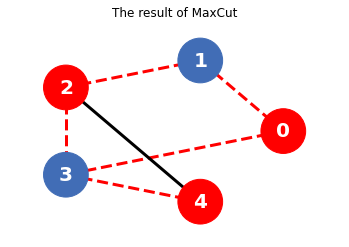
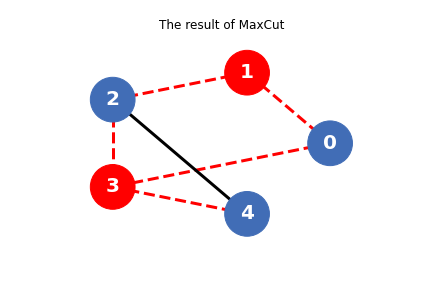
add QAOA demo

diff --git a/docs/zh/docs/tutorials/algorithm/VQA/QAOA.md b/docs/zh/docs/tutorials/algorithm/VQA/QAOA.md
@@ -1,0 +1,184 @@
+# 量子近似优化算法（QAOA）
+
+本教程旨在介绍如何使用经典机器学习库Pytorch和QuICT中内置的量子近似优化算法模块（Quantum Approximate Optimization Algorithm, QAOA）进行通用的组合优化问题的求解，并以最大割问题（Max-Cut Problem）为例具体阐述QAOA。
+
+## 组合优化问题
+
+## 编码组合优化问题
+
+## QuICT实现QAOA求解最大割问题
+
+### 1. 创建最大割问题的图
+
+首先，导入运行库：
+
+```python
+import torch
+import tqdm
+
+from QuICT.algorithm.quantum_machine_learning.utils import Hamiltonian
+from QuICT.algorithm.quantum_machine_learning.utils.ml_utils import *
+from QuICT.algorithm.quantum_machine_learning.model.VQA import QAOANet
+from QuICT.algorithm.tools.drawer.graph_drawer import *
+from QuICT.simulation.state_vector import ConstantStateVectorSimulator
+```
+
+接下来，生成最大割问题的图 $G$ ，其中 $n$ 为图 $G$ 的顶点数：
+
+```python
+n = 5
+nodes = list(range(n))
+edges = [[0, 1], [1, 2], [2, 3], [3, 4], [0, 3], [2, 4]]
+# 内置的画图函数可以打印生成的图G
+draw_graph(nodes, edges)
+```
+
+<figure markdown>
+![Max-Cut Graph](../../../assets/images/tutorials/algorithm/VQA/QAOA/maxcut_graph.png){:width="500px"}
+</figure>
+
+### 2. 根据图编码哈密顿量
+
+为了将最大割问题转化为量子问题，应使 $G$ 的 $n$ 个顶点分别一一对应到 $n$ 个量子比特，一个量子比特处于 $\left | 0 \right \rangle$ 或 $\left | 1 \right \rangle$ 态分别代表其对应顶点属于不同的集合 $S_0$ 和 $S_1$ 。对于图 $G$ 中的任意一条边 $(u, v)$ ，当 $u$ 和 $v$ 分别属于不同集合时，意味着这条边被割开。
+
+而量子态 $\left | 0 \right \rangle$ 和 $\left | 1 \right \rangle$ 是泡利 $Z$ 门的两个本征态，对应的本征值分别为 $1$ 和 $-1$ 。因此最大割问题的哈密顿量 $H$ 可以通过泡利 $Z$ 门构建：
+
+```python
+def maxcut_hamiltonian(edges):
+    pauli_list = []
+    for edge in edges:
+        pauli_list.append([-1.0, "Z" + str(edge[0]), "Z" + str(edge[1])])
+    hamiltonian = Hamiltonian(pauli_list)
+
+    return hamiltonian
+
+H = maxcut_hamiltonian(edges)
+```
+
+QuICT中的哈密顿量以`list`形式的泡利字符串作为输入，并构建哈密顿类，同时，也可以查看哈密顿类的泡利字符串：
+
+```python
+H.pauli_str
+```
+
+```
+[[-1.0, 'Z0', 'Z1'],
+ [-1.0, 'Z1', 'Z2'],
+ [-1.0, 'Z2', 'Z3'],
+ [-1.0, 'Z3', 'Z4'],
+ [-1.0, 'Z0', 'Z3'],
+ [-1.0, 'Z2', 'Z4']]
+```
+
+### 3. 构建含参的QAOA电路
+
+为了求解最大割问题，需要找到量子态 $\left | \psi \right \rangle$ ，使上一节中哈密顿量的期望 $\left \langle \psi \right | H \left | \psi \right \rangle$ 最大
+
+在QuICT中，可以直接调用`QAOANet`根据哈密顿量初始化QAOA量子神经网络实例：
+
+```python
+qaoa_net_sample = QAOANet(n_qubits=n, p=1, hamiltonian=H)
+```
+
+`QAOANet`继承自`torch.nn.Module`，定义了待训练的参数；前向传播函数`forward()`，用于计算运行量子电路后得到的输出态 $\left | \psi \right \rangle$ ；以及损失函数`loss_func()`，用于计算负期望 $-\left \langle \psi \right | H \left | \psi \right \rangle$。
+
+另外，可以通过`construct_circuit()`函数获取构建的QAOA电路：
+
+```python
+qaoa_cir_sample = qaoa_net_sample.construct_circuit()
+qaoa_cir_sample.draw()
+```
+
+<figure markdown>
+![Max-Cut Circuit](../../../assets/images/tutorials/algorithm/VQA/QAOA/maxcut_circuit.png)
+</figure>
+
+### 4. 利用Pytorch的经典优化器进行训练
+
+初始化训练相关的参数：
+
+```python
+p = 4           # 量子电路层数
+MAX_ITERS = 150 # 最大迭代次数
+LR = 0.1        # 梯度下降的学习率
+SEED = 17       # 随机数种子
+
+set_seed(SEED)  # 设置全局随机种子
+```
+
+初始化QAOA网络和经典优化器，并开始迭代训练：
+
+```python
+qaoa_net = QAOANet(n_qubits=n, p=p, hamiltonian=H)
+optim = torch.optim.Adam([dict(params=qaoa_net.parameters(), lr=LR)])
+
+# 开始训练
+qaoa_net.train()
+loader = tqdm.trange(MAX_ITERS, desc="Training", leave=True)
+for it in loader:
+    optim.zero_grad()
+    state = qaoa_net()
+    loss = qaoa_net.loss_func(state)
+    loss.backward()
+    optim.step()
+    loader.set_postfix(loss=loss.item())
+```
+
+```
+Training: 100%|██████████| 150/150 [00:53<00:00,  2.81it/s, loss=-3.78]
+```
+
+### 5. 利用输出的量子态解码最大割问题的解
+
+通过量子测量对最终获得的量子态进行多次采样，并统计出现的比特串的概率分布：
+
+```python
+# 进行1000次模拟测量
+shots = 1000
+qaoa_ansatz = qaoa_net.construct_ansatz()
+prob = qaoa_ansatz.sample(shots)
+
+plt.figure()
+plt.xlabel("Qubit States")
+plt.ylabel("Probabilities")
+plt.bar(range(len(prob)), np.array(prob) / shots)
+plt.show()
+```
+
+<figure markdown>
+![Max-Cut Prob](../../../assets/images/tutorials/algorithm/VQA/QAOA/maxcut_prob.png){:width="500px"}
+</figure>
+
+测量中出现概率最高的比特串最有可能是此Max-Cut问题的最优解：
+
+```python
+solution = prob.index(max(prob))
+solution_bit = ("{:0" + str(n) + "b}").format(solution)
+solution_bit
+```
+
+```
+'10101'
+```
+
+这个比特串中取值为 $0$ 的量子比特意味着其对应的顶点属于集合 $S_0$，取值为1的对应顶点属于集合 $S_1$。
+
+最后，利用内置函数对属于不同集合的顶点分别涂色，并画出图 $G$ 的最大割结果图：
+
+```python
+draw_maxcut_result(nodes, edges, solution_bit)
+```
+
+<figure markdown>
+![Max-Cut Result](../../../assets/images/tutorials/algorithm/VQA/QAOA/maxcut_result.png){:width="500px"}
+</figure>
+
+---
+
+## 参考文献
+
+<div id="refer1"></div>
+<font size=3>
+[1] Farhi, E., Goldstone, J. & Gutmann, S. A Quantum Approximate Optimization Algorithm. [arXiv:1411.4028 (2014)](https://arxiv.org/abs/1411.4028)
+</font>
+---

diff --git a/docs/zh/docs/tutorials/algorithm/VQA/QNN.md b/docs/zh/docs/tutorials/algorithm/VQA/QNN.md
@@ -1,6 +1,7 @@
 # 量子神经网络（QNN）
 
 本教程旨在介绍如何使用经典机器学习库Pytorch和QuICT中内置的量子神经网络层构建一个用于分类MNIST手写数据集的量子神经网络（Quantum Neural Network, QNN）。
+
 ## 导入运行库
 
 首先，导入必要的运行库及相关依赖：
